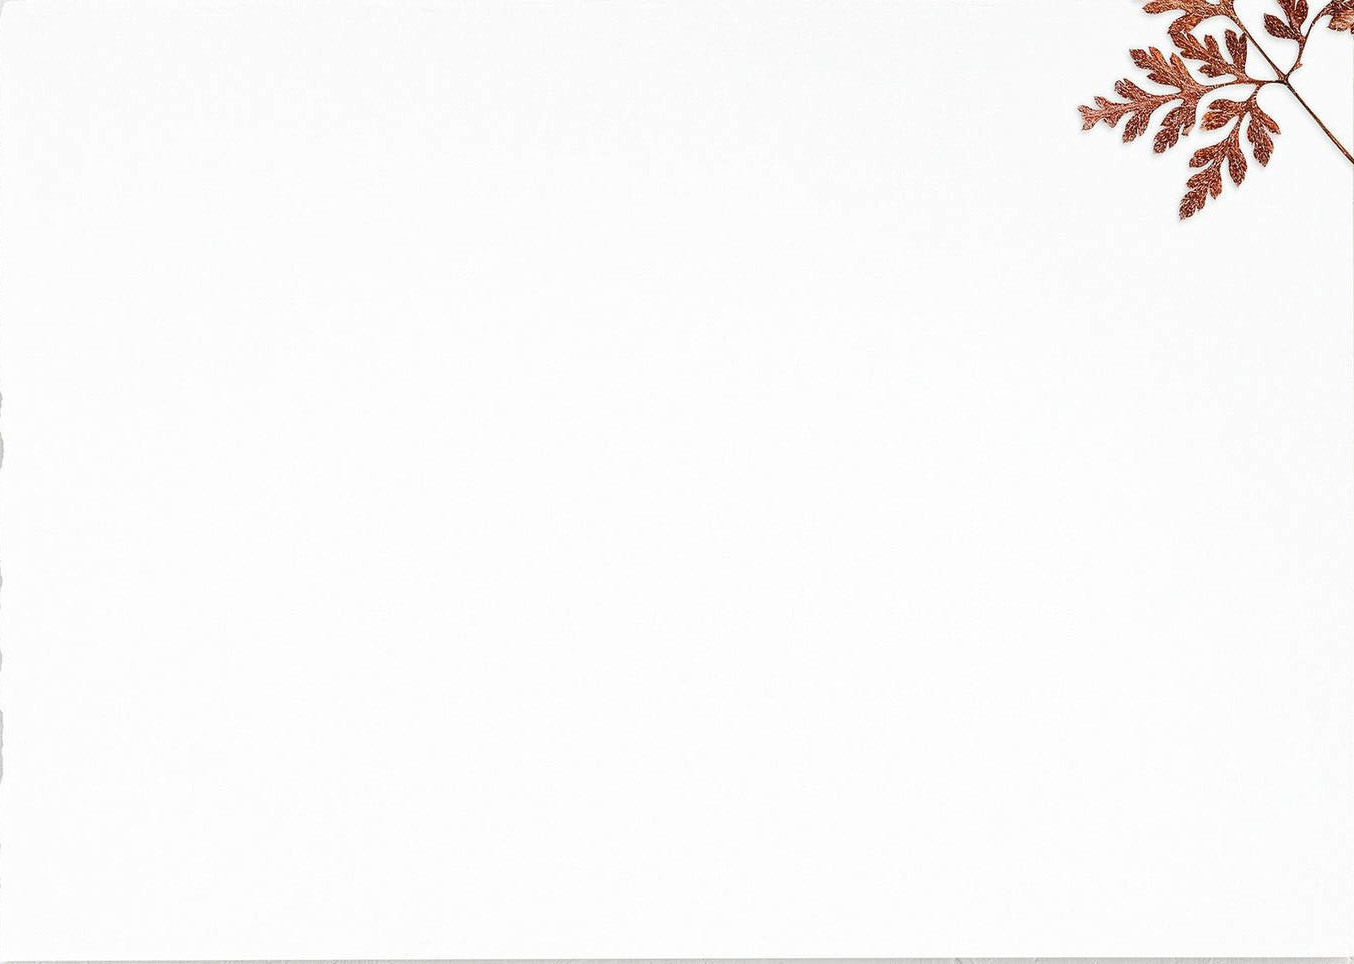
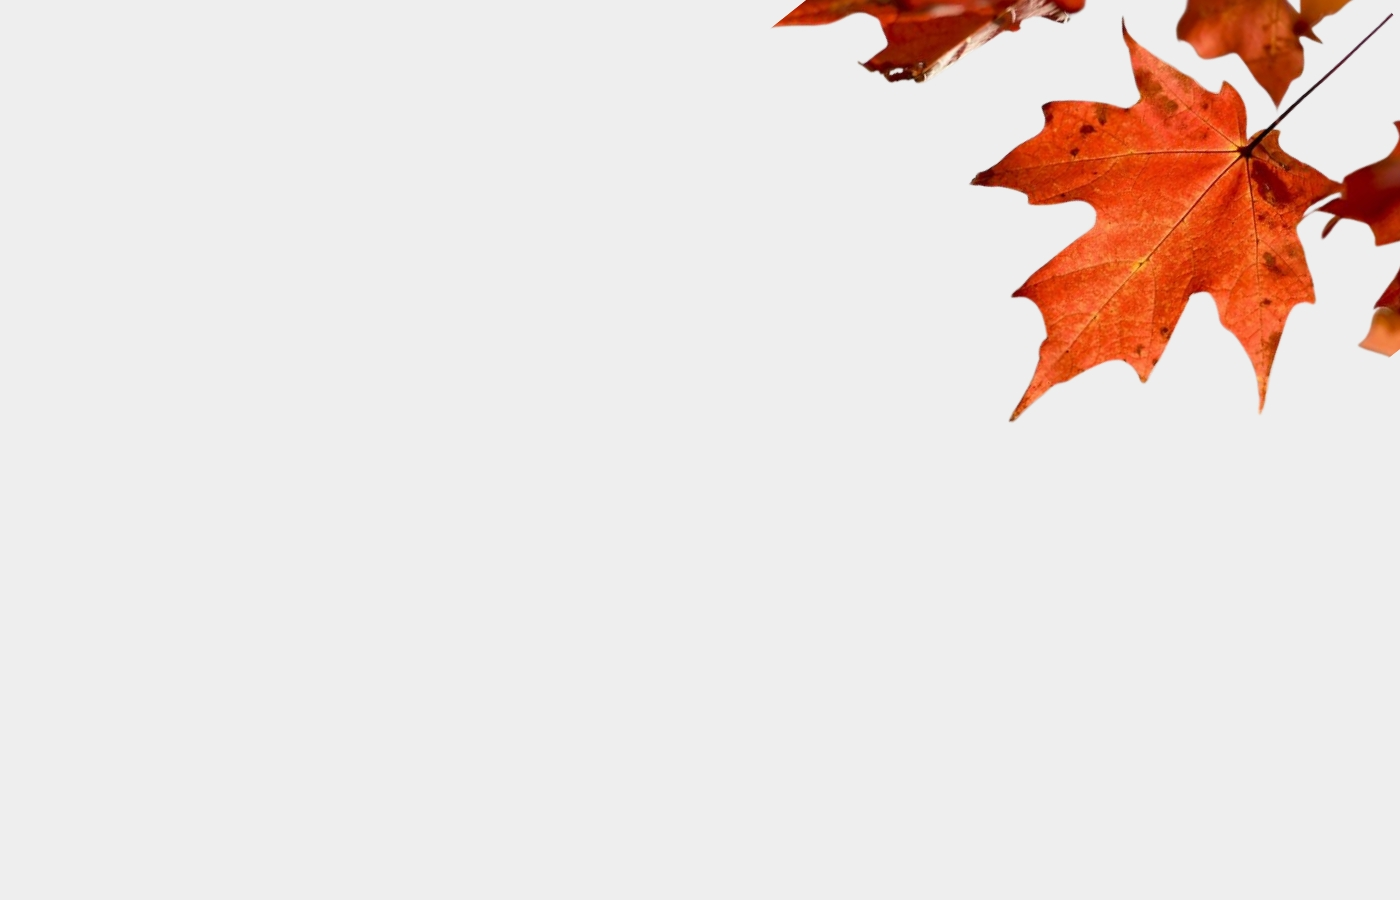
changes

Changed region(s): [[0.6824, 0.0, 1.0, 0.4667], [0.0, 0.9956, 1.0, 1.0], [0.5583, 0.0, 0.7755, 0.0933]]

diff --git a/src/Pages/Products.js b/src/Pages/Products.js
@@ -52,10 +52,10 @@ const Products = () => {
     }));
 
     return (
-        <>
+        <div style={{ backgroundImage:`url(/productback.jpg)`, backgroundSize:'cover', backgroundPosition:'center center'}}>
             <Container sx={{ py: 8 }} maxWidth="lg">
                 <Grid>
-                    <Typography variant="h2" sx={{ textAlign: "center", color: theme.palette.primary.main, padding: "50px" }}>
+                    <Typography variant="h2" sx={{ textAlign: "center", color: theme.palette.primary.main, padding: "50px", fontWeight:"bold" }}>
                         Our Products
                     </Typography>
                 </Grid>
@@ -834,7 +834,7 @@ const Products = () => {
                     </Grid>
                 </Grid>
             </Container>
-        </>
+        </div>
     );
 }
 

diff --git a/src/Pages/Home.js b/src/Pages/Home.js
@@ -238,7 +238,7 @@ const Home = () => {
                     </Grid>
                 ))}
             </Container>
-            <Container sx={{ mt: { xs: 2, sm: 0, md: 4 }, height: 'auto', paddingBottom: { xs: '100px', sm: '0' }, maxWidth: 'lg' }}>z
+            <Container sx={{ mt: { xs: 2, sm: 0, md: 4 }, height: 'auto', paddingBottom: { xs: '100px', sm: '0' }, maxWidth: 'lg' }}>
                 <Grid container spacing={2}>
                     <Grid item xs={12}>
                         <Box sx={{ my: { xs: 5, md: 10 }, }}>
